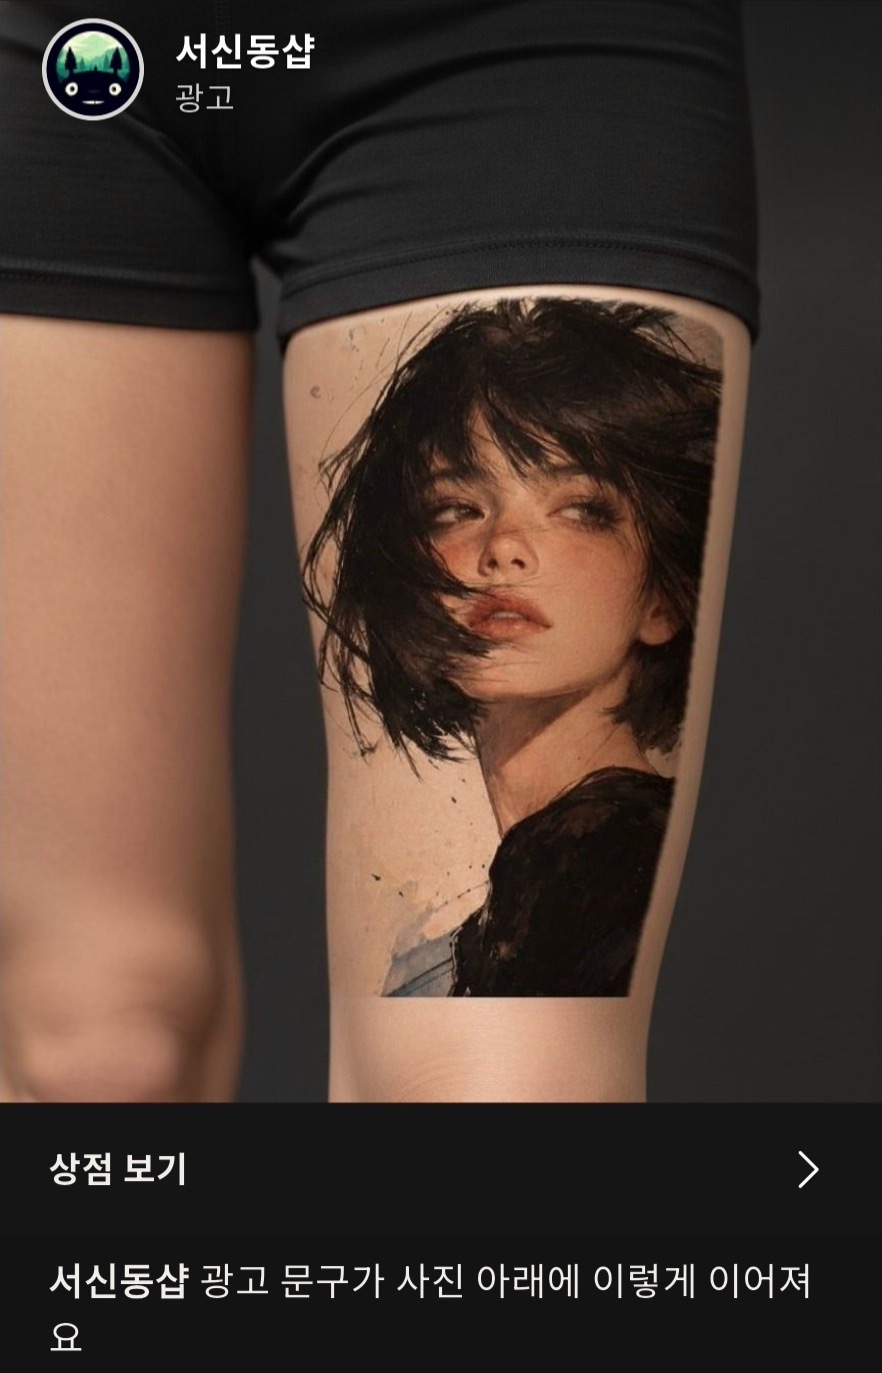
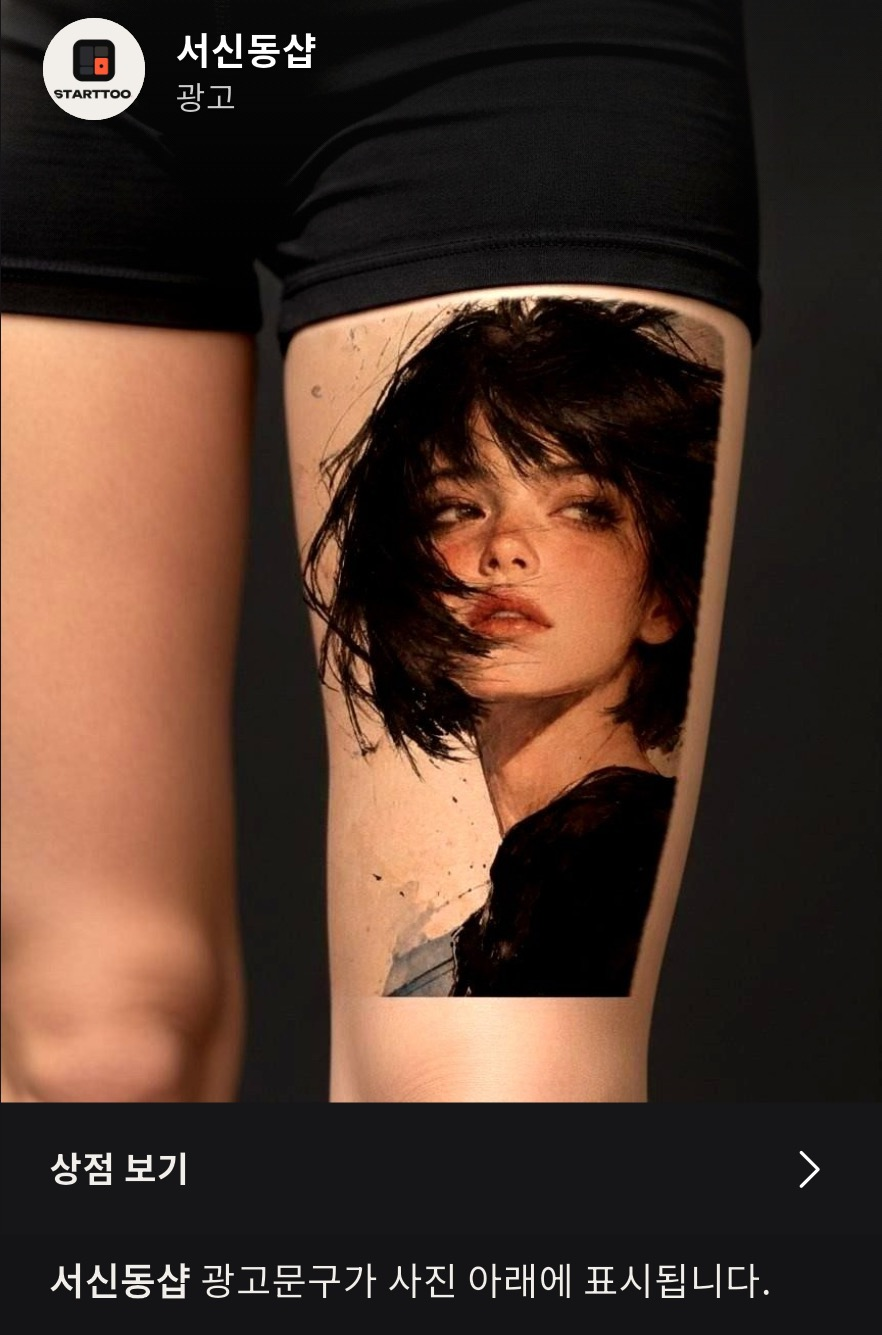
starttoo 개발

diff --git a/public/advertiser/adv.css b/public/advertiser/adv.css
@@ -92,7 +92,7 @@ input:focus-visible, select:focus-visible, textarea:focus-visible, button:focus-
 .pp-cap { padding: 7px 12px 10px; font-size: 11.5px; line-height: 1.5; color: var(--ivory); } .pp-cap b { font-weight: 700; }
 /* 실제 앱 광고 카드 캡처 */
 .pp-shot-feed img { display: block; width: 100%; height: auto; }
-.pp-shot-card { border-radius: 16px; } .pp-shot-card img { display: block; width: 100%; aspect-ratio: 1400 / 568; object-fit: cover; border-radius: 16px; }
+.pp-shot-card { border-radius: 16px; } .pp-shot-card img { display: block; width: 100%; aspect-ratio: 981 / 356; object-fit: cover; border-radius: 16px; }
 .pp-next { flex: 1; margin-top: 8px; background: linear-gradient(160deg, #2A2A2E, #1A1A1C); }
 /* 커뮤니티 맨 위 광고(CommunityAdCard): 16 모서리 · 어둡게 덮은 사진 · 광고 배지 · 두 줄 문구 · 브랜드 */
 .pp-cad { height: 150px; border-radius: 16px; overflow: visible; }
